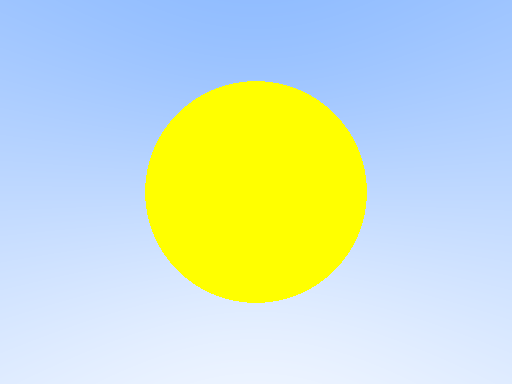
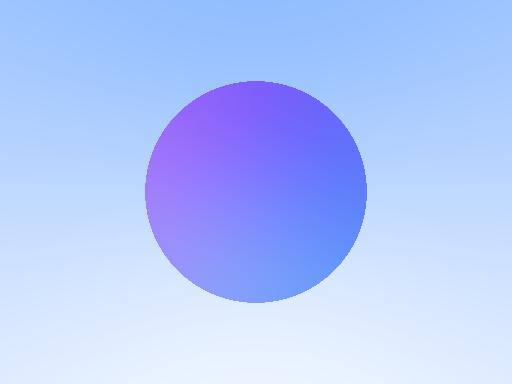
Progress
Todo: Switch to floating point colours throughout, fix normal issues

Changed region(s): [[0.2812, 0.1875, 0.7188, 0.8125]]

diff --git a/raytracer/src/scene.rs b/raytracer/src/scene.rs
@@ -7,7 +7,7 @@ pub struct Scene {
 }
 
 pub trait SceneObject {
-    fn check_hit(&self, ray: &PrimitiveRay) -> Option<Rgb<u8>>;
+    fn check_hit(&self, ray: &PrimitiveRay) -> Option<f32>;
     fn position(&self) -> Vec3;
 }
 
@@ -17,20 +17,20 @@ pub struct Sphere {
 }
 
 impl SceneObject for Sphere {
-    fn check_hit(&self, ray: &PrimitiveRay) -> Option<Rgb<u8>> {
+    fn check_hit(&self, ray: &PrimitiveRay) -> Option<f32> {
         let offset = ray.origin - self.position;
 
-        let a = ray.direction.dot(ray.direction);
-        let b = 2.0 * offset.dot(ray.direction);
-        let c = offset.dot(offset) - self.radius * self.radius;
-        let discriminant = b*b - 4.0*a*c;
+        let a = ray.direction.length_squared();
+        let half_b = offset.dot(ray.direction);
+        let c = offset.length_squared() - self.radius * self.radius;
+        let discriminant = half_b*half_b - a*c;
 
         if discriminant < 0.0 {
             return None
         }
 
         //return Some(Rgb::<u8>([(255.0 - discriminant.sqrt() * 255.0) as u8, 0, 0]))
-        Some(Rgb::<u8>([255, 255, 0]))
+        Some((-half_b - discriminant.sqrt()) / a)
     }
 
     fn position(&self) -> Vec3 {

diff --git a/raytracer/src/ray.rs b/raytracer/src/ray.rs
@@ -12,12 +12,17 @@ impl PrimitiveRay {
         PrimitiveRay { origin, direction }
     }
 
+    pub fn at(&self, t: f32) -> Vec3 {
+        self.origin + t*self.direction
+    }
+
     pub fn get_result(&self, scene: &Scene) -> Rgb<u8> { // TODO take parameters and scene
         for object in &scene.objects {
             let result = object.check_hit(self);
             match result {
-                Some(colour) => {
-                    return colour;
+                Some(t) => {
+                    let n = (self.at(t) - Vec3::new(0.0, 0.0, -1.0)).normalize();
+                    return Rgb::<u8>([((n.x + 1.0) * 255.0 * 0.5) as u8, ((n.y + 1.0) * 255.0 * 0.5) as u8, ((n.z + 1.0) * 255.0 * 0.5) as u8])
                 }
                 None => {
                     continue;
